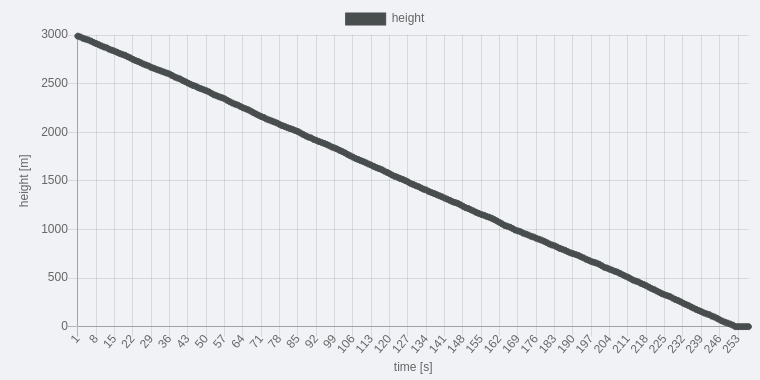
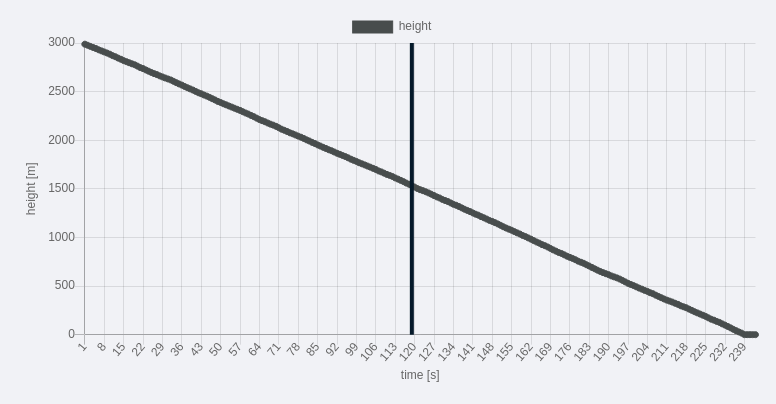
correct readme

diff --git a/src/scss/main.scss b/src/scss/main.scss
@@ -67,6 +67,7 @@ body {
     margin: 5vh 0;
   }
 
+
   #time-input {
     position: absolute;
     top: 50%;

diff --git a/README.md b/README.md
@@ -33,7 +33,7 @@
 ### Charts
 
 Depending on the size of using device, charts can appear on the right side or under the map.
-Each chart represents some part of data collected by CanSat. It is possible to hover the line and see more detailed informations about data from specific part of time.
+Each chart represents some part of data collected by CanSat. It is possible to hover the part of diagram and see more detailed informations about data from specific part of time. There also appears a vertical line which is resposnsible for showing current selected time.
 
 ![One of charts basing on real collected data](readme/chart.png)
 One of charts basing on real collected data.
